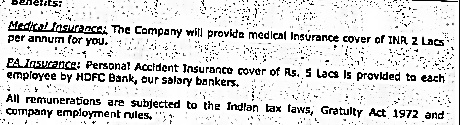
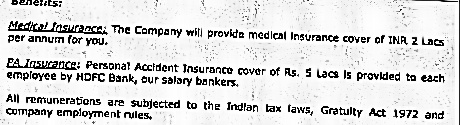
added contrast method

diff --git a/src/ex03/thresholding.py b/src/ex03/thresholding.py
@@ -1,10 +1,36 @@
 import cv2, numpy as np
 import sys
 
+def apply_brightness_contrast(input_img, brightness = 0, contrast = 0):
+
+    if brightness != 0:
+        if brightness > 0:
+            shadow = brightness
+            highlight = 255
+        else:
+            shadow = 0
+            highlight = 255 + brightness
+        alpha_b = (highlight - shadow)/255
+        gamma_b = shadow
+
+        buf = cv2.addWeighted(input_img, alpha_b, input_img, 0, gamma_b)
+    else:
+        buf = input_img.copy()
+
+    if contrast != 0:
+        f = 131*(contrast + 127)/(127*(131-contrast))
+        alpha_c = f
+        gamma_c = 127*(1-f)
+
+        buf = cv2.addWeighted(buf, alpha_c, buf, 0, gamma_c)
+
+    return buf
+
 if __name__ == '__main__':
+
     # read image
     orig = cv2.imread(sys.argv[1])
-
+    
     # grey scaling
     grey_img = cv2.cvtColor(orig, cv2.COLOR_BGR2GRAY)
 
@@ -15,9 +41,24 @@ if __name__ == '__main__':
     adapt_thresh = cv2.adaptiveThreshold(grey_img, 255, cv2.ADAPTIVE_THRESH_GAUSSIAN_C, cv2.THRESH_BINARY, 11, 2)
 
     # denoishing
-    denoised = cv2.fastNlMeansDenoising(adapt_thresh, 11, 31, 9)
+    denoised = cv2.fastNlMeansDenoising(adapt_thresh, 11, 45, 9) #11, 31, 9 #30,7,25
 
-    # cv2.namedWindow('result', cv2.WINDOW_NORMAL)
+    # contrasting
+    b=0 #brightness_const
+    c=64 #contrast_const
+    contrast = apply_brightness_contrast(denoised, b, c)
+
+    # ---------- ignore --------- #
+    # dst.convertTo(dst, -1, 2, 0)    
+    # vector<Mat> channels
+    # Mat img_hist_equalized
+    # cvtColor(dst, img_hist_equalized, CV_BGR2YCrCb)
+    # split(img_hist_equalized,channels)
+    # equalizeHist(channels[0], channels[0])
+    # merge(channels,img_hist_equalized)
+    # cvtColor(img_hist_equalized, img_hist_equalized, CV_YCrCb2BGR)
+    # --------------------------- #
+
     cv2.imshow('orig', orig)
     cv2.waitKey(0)
     cv2.imshow('grey_img', grey_img)
@@ -28,6 +69,8 @@ if __name__ == '__main__':
     cv2.waitKey(0)
     cv2.imshow('denoised', denoised)
     cv2.waitKey(0)
+    cv2.imshow('contrast', contrast)
+    cv2.waitKey(0)
 
     cv2.destroyAllWindows()
 
@@ -36,3 +79,4 @@ if __name__ == '__main__':
     cv2.imwrite('src/ex03/images/'+'global_thresh'+'.jpg', global_thresh)
     cv2.imwrite('src/ex03/images/'+'adapt_thresh'+'.jpg', adapt_thresh)
     cv2.imwrite('src/ex03/images/'+'denoised'+'.jpg', denoised)
+    cv2.imwrite('src/ex03/images/'+'contrast'+'.jpg', contrast)

diff --git a/src/ex03/README.md b/src/ex03/README.md
@@ -12,3 +12,6 @@
 
 ## denoised
 ![denoised](images/denoised.jpg)
+
+## contrast
+![contrast](images/contrast.jpg)
